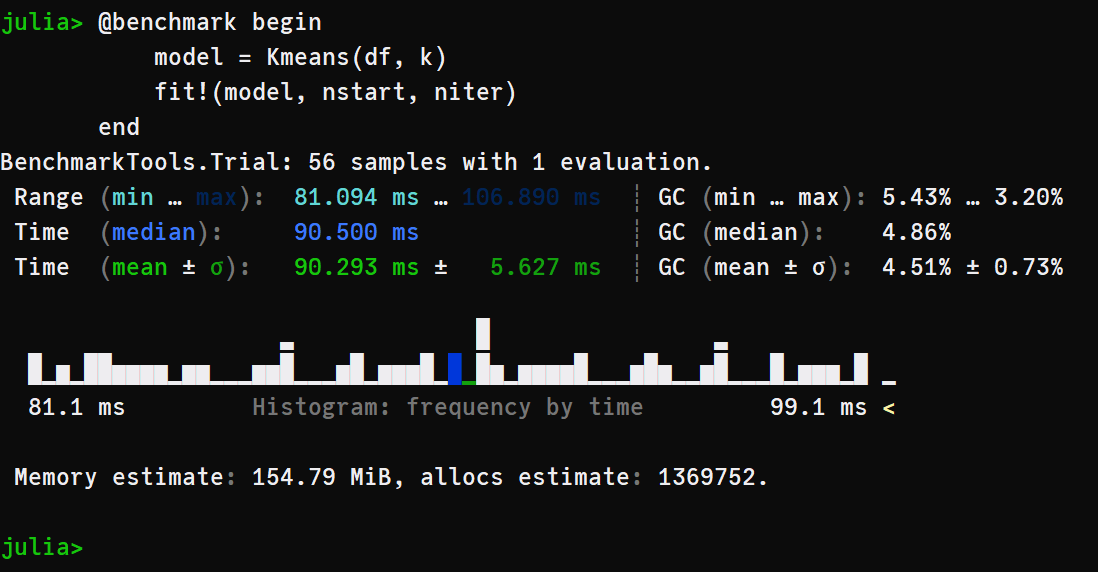
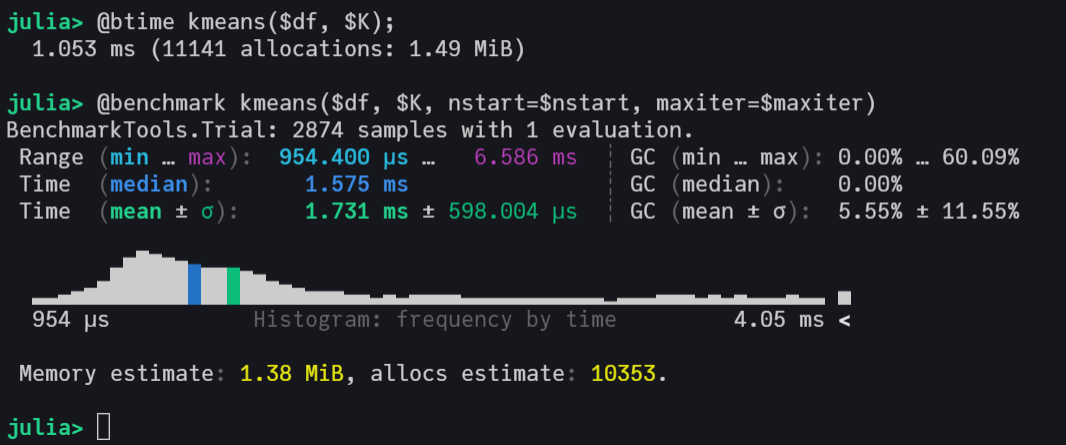
update kmeans .md file w/ new benchmarks

diff --git a/algo_overview/kmeans_overview.md b/algo_overview/kmeans_overview.md
@@ -1,4 +1,7 @@
 ## What the K-Means do?
+
+<img src="imgs/kmeans_example.png" width="70%">  
+
 It's a [cluster algorithm](https://en.wikipedia.org/wiki/Cluster_analysis#cluster) based on [centroids](https://en.wikipedia.org/wiki/Centroid). The method partitions the data into k clusters, where each observation belongs to a cluster/centroid <img src="https://render.githubusercontent.com/render/math?math=k_{i}">. The user needs to provide the number of k cluster desired and to choose the ideal number os k, there are some methods such the [elbow-plot](https://en.wikipedia.org/wiki/Elbow_method_(clustering)) or the [silhuete-plot](https://en.wikipedia.org/wiki/Silhouette_(clustering)) that could be implemented with this package.  
 
 The K-Means is a iterative method, therefore it optimizes the measure of intra-cluster variance through a sequence of iterations detailed below. There is a equivalence between the sum of squared error (SSE) and the total intra-cluster variance, Kriegel (2016), which allows us optimize the SSE in the code.
@@ -11,11 +14,11 @@ The inspiration for K-Means came from reading some articles (in the references) 
 3. Assign every point to a cluster, by choosing the centroid with the minimum distance to the point.
 4. Calculate the Total Variance Within Cluster by the SSE of this iteration.
 5. Recalculate the centroids using the mean of the assigned points.
-6. Repeat `ntimes` the steps 3 to 5 until reach at the minimum total variance at step 4.
+6. Repeat the steps 3 to 5, `maxiter` times, until reach at the minimum total variance at step 4.
 
-After that, repeat all steps `nstart` and select the centroids with the minimum total variance.
+After that, repeat all steps `nstart` times and select the centroids with the minimum total variance.
 
-The default arguments `nstart` and `niter` in the code are 50 and 10, respectively. But could also be changed by the user changing the args in the function `kmeans(df, k, nstart=20, niter=4)`, for example.
+The default arguments `nstart` and `maxiter` in the code are 50 and 10, respectively. But could also be changed by the user changing the args in the function `kmeans(data, K, nstart=10, maxiter=10)`, for example.
 
 
 ## Cool vizualizations that explain the K-Means algorithm
@@ -26,8 +29,10 @@ The default arguments `nstart` and `niter` in the code are 50 and 10, respective
 **Figure 02** - From [K-Means wikipedia page](https://en.wikipedia.org/wiki/K-means_clustering#/media/File:K-means_convergence.gif)  
 <img src="imgs/Kmeans_convergence.gif" width="50%">  
 
-## Benchmarking code
+## Benchmarking the algorithm
 ```julia
+# install and load packages
+pkg> add "https://github.com/AugustoCL/ClusterAnalysis.jl"
 julia> using ClusterAnalysis, RDatasets, DataFrames
 
 # load iris dataset 
@@ -35,58 +40,43 @@ julia> iris = dataset("datasets", "iris");
 julia> df = iris[:, 1:end-1];
 
 # parameters of k-means
-julia> k, nstart, niter = 4, 100, 10;
+julia> k, nstart, maxiter = 4, 10, 10;
 
-# benchmarking algorithm
-julia> @benchmark model = Kmeans(df, k, nstart=nstart, niter=niter)
-```
+# benchmarking the algorithm
+julia> @benchmark model = kmeans($df, $k, nstart=$nstart, maxiter=$maxiter)
+```  
 <img src="imgs/benchmark_code.png" width="70%">  
+
+This implementation has an excellent computational performance, being faster than [Scikit-Learn's KMeans](https://scikit-learn.org/stable/modules/generated/sklearn.cluster.KMeans.html#sklearn.cluster.KMeans) and very close to the [kmeans from R](https://www.rdocumentation.org/packages/stats/versions/3.6.2/topics/kmeans), which call C and FORTRAN in its source code.
+
+**Scikit-Learn with C in backend**
+
+<img src="imgs/benchmark_sklearn_kmeans.png" width="70%">  
+
+**R with C + FORTRAN in backend**
+
+<img src="imgs/benchmark_R_kmeans.png" width="70%">   
+
 
 
 ## References and Papers
 - [First paper](http://projecteuclid.org/euclid.bsmsp/1200512992) that mentioned K-Means.
 - [Pseudo-Code](http://www.inference.org.uk/mackay/itprnn/ps/284.292.pdf) utilized to prototype the first code extracted from the book *Information Theory, Inference and Learning Algorithms*.
-- [K-Means++](http://ilpubs.stanford.edu:8090/778/1/2006-13.pdf) paper with the new initialization that we will add soon.
+- [K-Means++](http://ilpubs.stanford.edu:8090/778/1/2006-13.pdf) paper with the KMeans++  initialization that we will add soon.
 - [Stanford Slides](http://theory.stanford.edu/~sergei/slides/BATS-Means.pdf) about K-Means.
 - Kriegel, Hans-Peter; Schubert, Erich; Zimek, Arthur (2016). "The (black) art of runtime evaluation: Are we comparing algorithms or implementations?". 
 
 ## K-Means Struct
 ```julia
-mutable struct Kmeans{T<:AbstractFloat}
-    df::Matrix{T}
+# kmeans output struct
+struct KmeansResult{T<:Real}
     K::Int
     centroids::Vector{Vector{T}}
-    cluster::Vector{T}
-    variance::T
-
-    # Internal Constructor
-    function Kmeans(df::Matrix{T}, K::Int) where {T<:AbstractFloat}
-        
-        # generate random centroids
-        nl = size(df, 1)
-        indexes = rand(1:nl, K)
-        centroids = Vector{T}[df[i,:] for i in indexes]
-
-        # estimate clusters
-        cluster = T[]
-        for obs in eachrow(df)
-            dist = [euclidean(obs, c) for c in centroids]
-            cl = argmin(dist)
-            push!(cluster, cl)
-        end
-
-        # evaluate total variance
-        cl = sort(unique(cluster))
-        variance = zero(T)
-        for k in cl
-            df_filter = df[cluster .== k, :]
-            variance += squared_error(df_filter)
-        end
-
-        new{T}(df, K, centroids, cluster, variance)
-    end
+    cluster::Vector{Int}
+    withinss::T
+    iter::Int
 end
 ```
 
 ## TO-DO
-- [ ] Add K-Means++ initialization, because today we got only the random initialization proposed by Andrew NG.
+- [ ] Add K-Means++ initialization. Until now we got only the random initialization proposed by Andrew NG.
